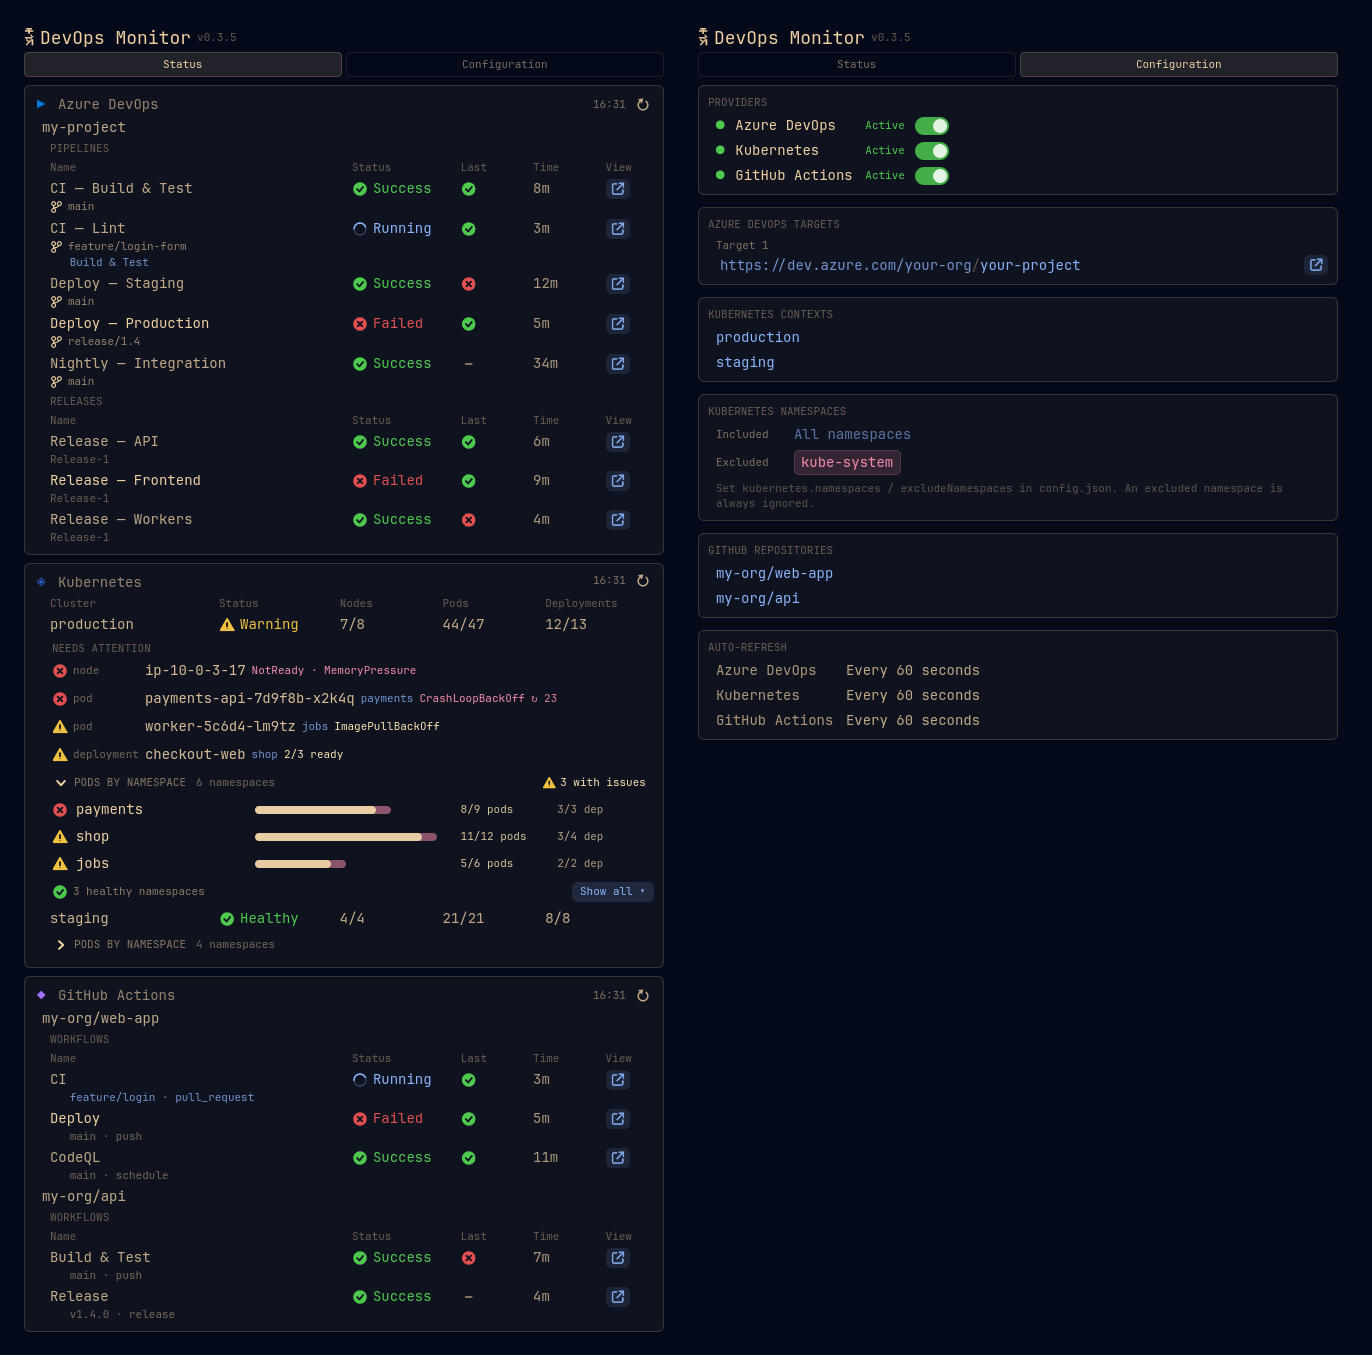
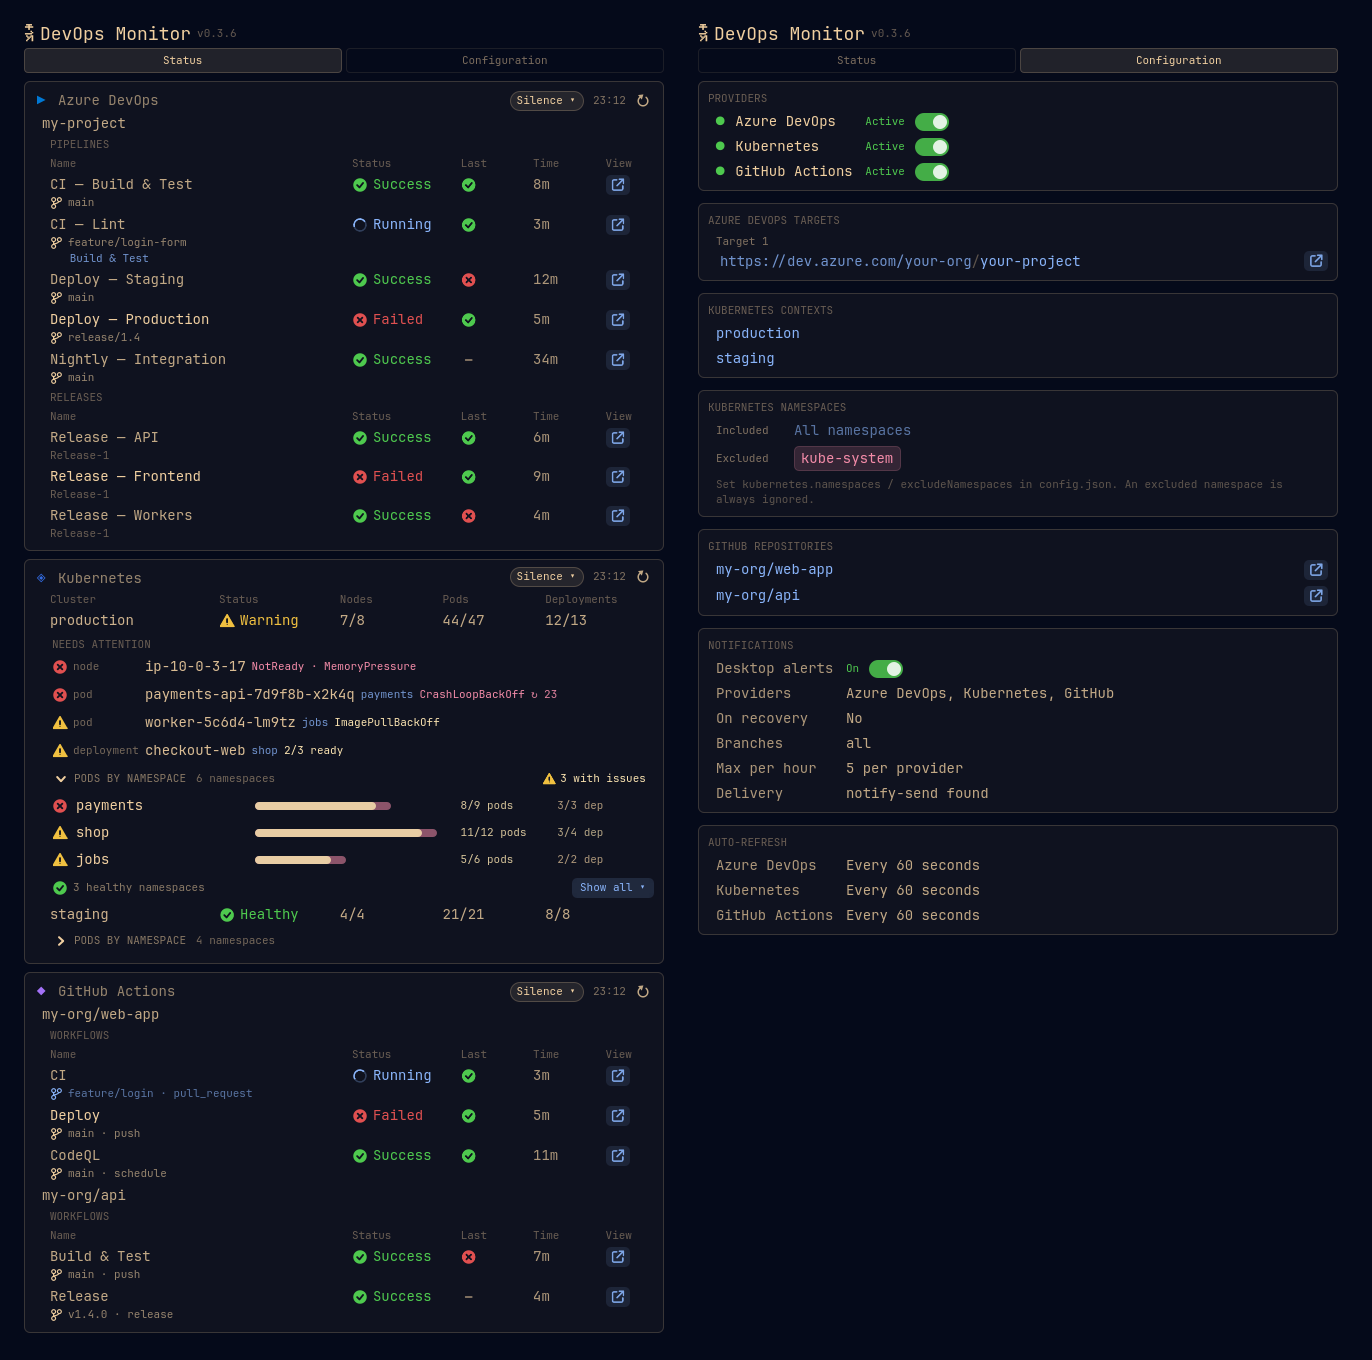
Update documentation and preview image for market

diff --git a/README.md b/README.md
@@ -10,7 +10,7 @@ An [Omarchy](https://omarchy.org/) bar plugin that gives you a single, always-vi
 | **Kubernetes** *(optional)* | Health of each context: nodes, pods and deployments ready; what is failing (pod, reason, restarts); pods per namespace, with an optional namespace filter | `kubectl` + kubeconfig |
 | **GitHub Actions** *(optional)* | Latest run of each workflow of the repositories you list (status, previous run, duration, branch) | GitHub CLI (`gh`) signed in with `gh auth login` |
 
-Each provider can be turned on or off independently, has its own refresh timer and never stores credentials.
+Each provider can be turned on or off independently, has its own refresh timer and never stores credentials. When a provider cannot work, the panel says what to do next (with a Copy button for the command). Optional desktop notifications tell you when something starts failing, and you can silence them per provider.
 
 ## Why DevOps Monitor?
 
@@ -25,6 +25,7 @@ It is not a replacement for Azure DevOps, GitHub or `k9s`. It is a status layer 
 - How long did each pipeline take?
 - Is my Kubernetes cluster healthy, and if not, which pod, node or deployment is the problem?
 - Did the latest run of each GitHub Actions workflow pass?
+- Did something just start failing? (optional desktop alerts, so you do not have to keep the panel open)
 
 **What it does not do:**
 - It does not let you trigger or cancel pipelines, workflows or releases.
@@ -35,7 +36,7 @@ It is not a replacement for Azure DevOps, GitHub or `k9s`. It is a status layer 
 
 ## Bar Widget
 
-The plugin icon in the bar shows an overall status dot that combines every enabled provider:
+The plugin icon in the bar shows an overall status mark that combines every enabled provider:
 
 | Display | Meaning |
 |---------|---------|
@@ -43,7 +44,7 @@ The plugin icon in the bar shows an overall status dot that combines every enabl
 | ` !` | Warning — at least one pipeline or workflow failed, or a provider is offline |
 | ` x` | Critical failure |
 
-When the plugin sees problems, the mark carries their count (for example ` ! 7`) and the tooltip lists them per provider.
+When there are problems, the mark also carries their count (for example ` ! 7`: failed pipelines, releases and workflows plus Kubernetes items that need attention). The tooltip lists the count per provider and says which providers are silenced.
 
 - **Left-click** — open the DevOps Monitor panel
 - **Right-click / Middle-click** — refresh immediately
@@ -52,12 +53,12 @@ When the plugin sees problems, the mark carries their count (for example ` !
 
 ## Panel
 
-The panel has two tabs: **Status** (live data of every enabled provider, one card per provider) and **Configuration** (provider switches, Azure DevOps targets, Kubernetes contexts, GitHub repositories and refresh intervals).
+The panel has two tabs: **Status** (live data of every enabled provider, one card per provider) and **Configuration** (provider switches, Azure DevOps targets, Kubernetes contexts and namespaces, GitHub repositories, desktop notifications and refresh intervals).
 
 ```
 DevOps Monitor                          16:41  ↺ Refresh
 
-Azure DevOps                                         ↻
+Azure DevOps                        [Silence ▾]  16:41 ↻
   omarchylabs
 
     PIPELINES
@@ -72,7 +73,7 @@ Azure DevOps                                         ↻
     DEMO RELEASE  ✕ Failed     ✕     6m     ↗
     Release-2
 
-Kubernetes                                           ↻
+Kubernetes                          [Silence ▾]  16:41 ↻
   Cluster       Status     Nodes   Pods    Deployments
   production    ⚠ Warning  7/8     44/47   12/13
     NEEDS ATTENTION
@@ -81,7 +82,7 @@ Kubernetes                                           ↻
     ⚠ pod   worker-5c6d4-lm9tz         jobs      ImagePullBackOff
     › PODS BY NAMESPACE  6 namespaces              ⚠ 3 with issues
 
-GitHub Actions                                       ↻
+GitHub Actions                      [Silence ▾]  16:41 ↻
   my-org/web-app
     Name          Status       Last  Time   View
     CI            ✓ Success    ✓     2m     ↗
@@ -109,6 +110,21 @@ Kubernetes clusters use their own columns: **Cluster**, **Status** (`Healthy` / 
 - **Needs attention** appears under a cluster when something is not healthy. It names the node, pod or deployment, its namespace, the reason (`CrashLoopBackOff`, `ImagePullBackOff`, `OOMKilled`, `Evicted`, `Pending`, `NotReady`, a node under memory/disk pressure, ...) and the restart count. Failed items are red, items that are not ready yet are yellow.
 - **Pods by namespace** is collapsed by default and shows how many namespaces have problems. Click it to see only the namespaces with problems; **Show all** opens the full list (problems first) in a fixed-height area with its own scroll, so a cluster with dozens of namespaces never makes the panel grow.
 - To watch only some namespaces, set `kubernetes.namespaces` (include) and/or `kubernetes.excludeNamespaces` (exclude; wins over include) in `config.json`. The Configuration tab shows the active filter.
+
+### Notices: what to do next
+
+When a provider cannot work, its card shows a short notice instead of a bare error: a CLI that is missing (amber), a failed read such as an unreachable cluster (red) or nothing configured yet (blue). Each notice lists the steps, and a **Copy** button puts the command on the clipboard (the plugin never runs it). The blue notice has a link that opens `config.json`. Install commands are deliberately not shown. Details in [`docs/providers.md`](docs/providers.md#notices).
+
+### Desktop notifications
+
+Optional and **off by default**. Turn them on with the **Desktop alerts** switch on the Configuration tab (it writes `notifications.enabled`), or in `config.json`.
+
+- You are notified only when something **changes to a failing state**: a failed pipeline, release or workflow, a Kubernetes item in a failed state, or a cluster that stops answering. The first reading after the shell starts is only a starting point and never notifies; what is still failing does not notify again.
+- At most `maxPerHour` notifications (default 5) per provider and hour; extra problems arrive as one "N new problems" summary. `onRecovery` also announces when a failing item is healthy again, and `branches` limits alerts to some branches (`"main"`, `"release/*"`).
+- **Silence** (chip in each provider's header): 1 hour, until 08:00 or indefinitely. A silenced provider keeps refreshing and still counts on the bar; problems that appear while silenced are not announced afterwards. Silences survive restarting the shell.
+- Needs `notify-send`; without it the feature is disabled and the Configuration tab says why.
+
+All options are in [`docs/configuration.md`](docs/configuration.md#notifications).
 
 ### Release status
 
@@ -176,6 +192,18 @@ omarchy-restart-shell
   "github": {
     "repos": ["your-user/your-repo"]
   },
+  "refresh": {
+    "azureDevOps": 60,
+    "kubernetes": 30,
+    "github": 60
+  },
+  "notifications": {
+    "enabled": false,
+    "providers": ["azureDevOps", "kubernetes", "github"],
+    "onRecovery": false,
+    "branches": [],
+    "maxPerHour": 5
+  },
   "development": {
     "mockData": false
   }
@@ -200,6 +228,11 @@ Needs `kubectl` installed and a configured kubeconfig; the plugin only reads the
 
 Uses the official GitHub CLI (`gh`) that you already have logged in; no token is stored by the plugin. Install `github-cli` with your package manager, run `gh auth login`, list the repositories to monitor in `github.repos` (up to 20, `"owner/repo"`) and turn on `providers.github` from the Configuration tab. The panel shows the latest run of every workflow of each repository, and the Configuration tab lists each repository with an "open in browser" icon (same as the Azure DevOps targets). See [`docs/setup.md`](docs/setup.md) for the step-by-step guide.
 
+### Optional tools
+
+- `notify-send` (package `libnotify`) — desktop alerts. Without it the alerts are disabled and the Configuration tab says so.
+- `wl-copy` (package `wl-clipboard`) — the Copy buttons of the setup notices. Without it the button shows "No wl-copy".
+
 ---
 
 ## Development
@@ -218,6 +251,18 @@ python3 scripts/kubernetes.py   --mock | python3 -m json.tool
 python3 scripts/github_actions.py --mock | python3 -m json.tool
 ```
 
+`development.mockError` previews the "what to do next" notices without the real tools (see [`docs/providers.md`](docs/providers.md#notices)).
+
+Omarchy reloads a plugin whenever a file inside its folder changes, and the notifier treats the first reading after a reload as a starting point. To try notifications with mock data, keep the mock file outside the plugin folder and link it (see [`docs/configuration.md`](docs/configuration.md#notifications)).
+
+Run the automated tests (plain Python, no packages to install; the same command runs in CI):
+
+```bash
+python3 tests/run_all.py
+```
+
+They cover the three provider scripts with test doubles for `az`, `kubectl` and `gh`, the notices, the silence state file and the text/link hardening. A checklist for trying the plugin against real clusters is in [`docs/testing.md`](docs/testing.md).
+
 ---
 
 ## Docs
@@ -228,12 +273,7 @@ python3 scripts/github_actions.py --mock | python3 -m json.tool
 | [`docs/configuration.md`](docs/configuration.md) | All configuration options |
 | [`docs/providers.md`](docs/providers.md) | Data shapes and provider details |
 | [`docs/architecture.md`](docs/architecture.md) | How the plugin works internally |
-| [`docs/testing.md`](docs/testing.md) | Testing guide |
-
-### Optional tools
-
-- `notify-send` (package `libnotify`) — desktop alerts. Without it the alerts are disabled and the Configuration tab says so.
-- `wl-copy` (package `wl-clipboard`) — the Copy buttons of the setup notices. Without it the button shows "No wl-copy".
+| [`docs/testing.md`](docs/testing.md) | Automated tests, CI and the real-cluster checklist |
 
 ---
 
@@ -244,7 +284,7 @@ python3 scripts/github_actions.py --mock | python3 -m json.tool
 - All subprocess output is treated as untrusted input.
 - Cluster data is read in bounded pieces: Kubernetes lists are fetched page by page (`kubectl get --raw`, 50 objects per request), each page is size-capped, every object is reduced to a few short fields as soon as it arrives, and the `kubectl` process runs with a 1 GiB memory limit. A cluster with huge annotations cannot make the plugin (or `kubectl`) exhaust memory.
 - Links are opened in the browser only after two checks (the script and the panel): HTTPS, a real Azure DevOps host or `github.com`, no user information (`https://dev.azure.com:443@evil.com/` is refused), no spaces or control characters. Names and messages from the services are reduced to printable text (no control, zero-width or bidirectional-override characters) before they are shown or sent in a notification.
-- Desktop alerts are opt-in (`notifications.enabled`), are sent with `notify-send` as an argument array (no shell) and their text is cleaned first. Silences are the only thing the plugin stores outside its config: a small private file in `$XDG_STATE_HOME`. Optional tools: `notify-send` (libnotify) for alerts and `wl-copy` (wl-clipboard) for the Copy buttons of the setup notices.
+- Desktop alerts are opt-in (`notifications.enabled`), are sent with `notify-send` as an argument array (no shell) and their text is cleaned first. Silences are the only thing the plugin stores outside its config: a small private file (`state.json`, mode 0600, in a 0700 folder) in `$XDG_STATE_HOME`; it holds provider names and times only. Copy buttons put text on the clipboard with `wl-copy` and nothing in the panel runs the copied commands.
 - Scripts run with your user permissions — review the code before installing.
 
 ---
